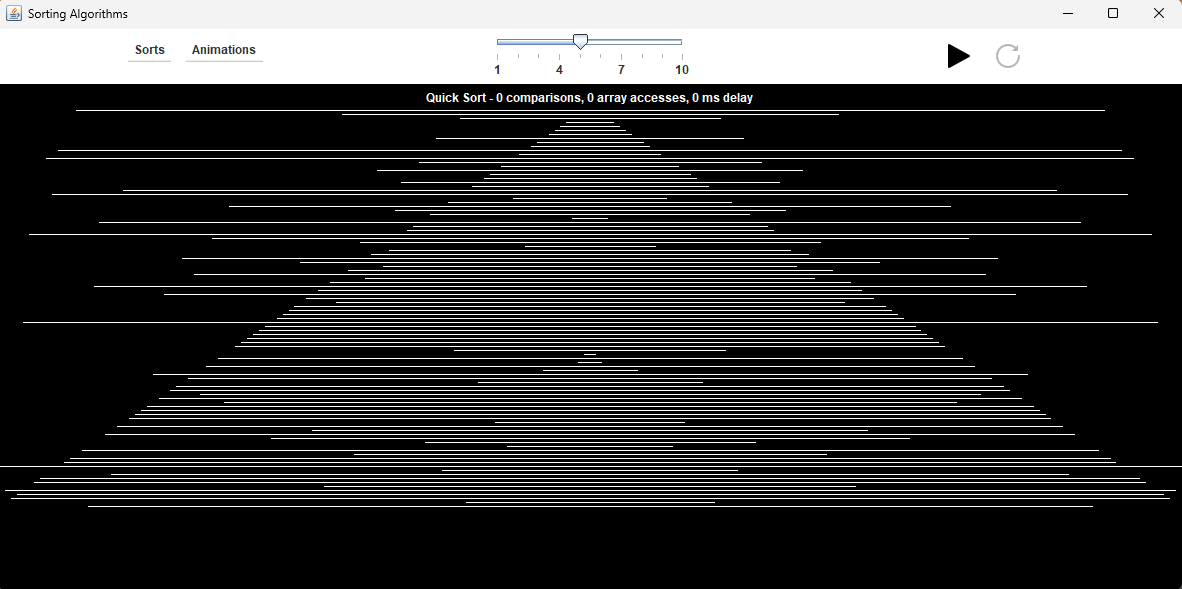
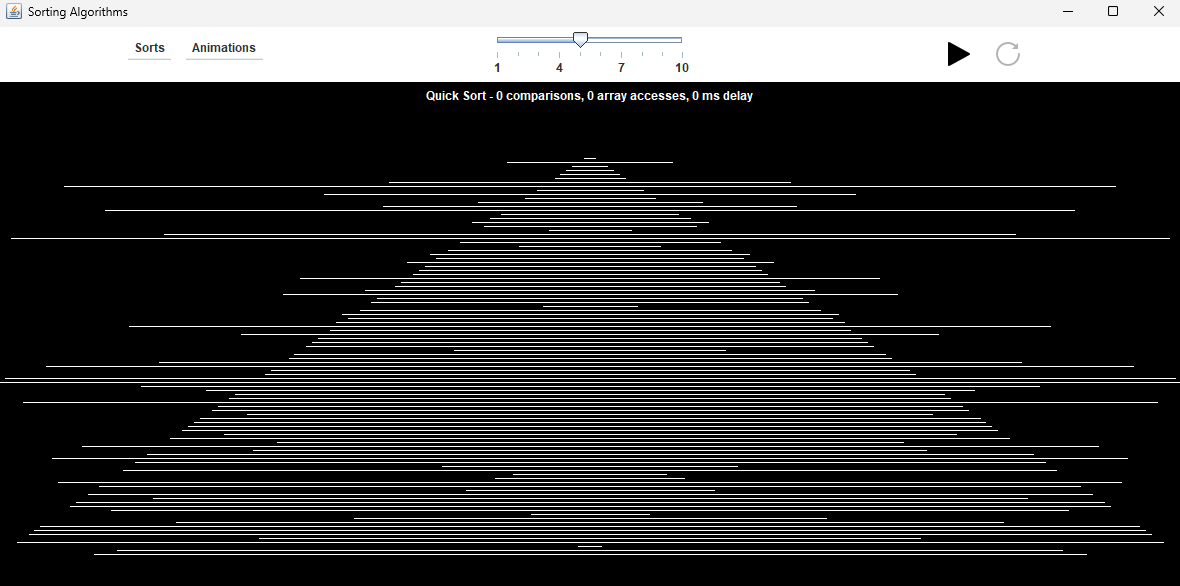
ajustement position pyramid animation

diff --git a/src/main/view/VBarAnimationView.java b/src/main/view/VBarAnimationView.java
@@ -26,7 +26,7 @@ public class VBarAnimationView extends AnimationStrategy {
         int barWidth = width / size;
         int barHeight = (int) ((this.sl.getGeneratorData()[i] / (double) size) * (height - 2));
         
-        int x = i * (width) / size + (width) / (2 * size)-5;
+        int x = (i * (width) / size + (width) / (2 * size)) - 5;
         int y = height - barHeight;
 
         g.fillRect(x, y, barWidth, barHeight);

diff --git a/src/main/view/PyramidAnimationView.java b/src/main/view/PyramidAnimationView.java
@@ -28,7 +28,7 @@ public class PyramidAnimationView extends AnimationStrategy {
         int baseWidth = (int) ((value / (double) size) * (width - 2));
         int x1 = (width - baseWidth) / 2;
         int x2 = x1 + baseWidth;
-        int y = i * baseHeight;
+        int y = (i * baseHeight) + 50;
         g.drawLine(x1, y, x2, y);
     }
 
